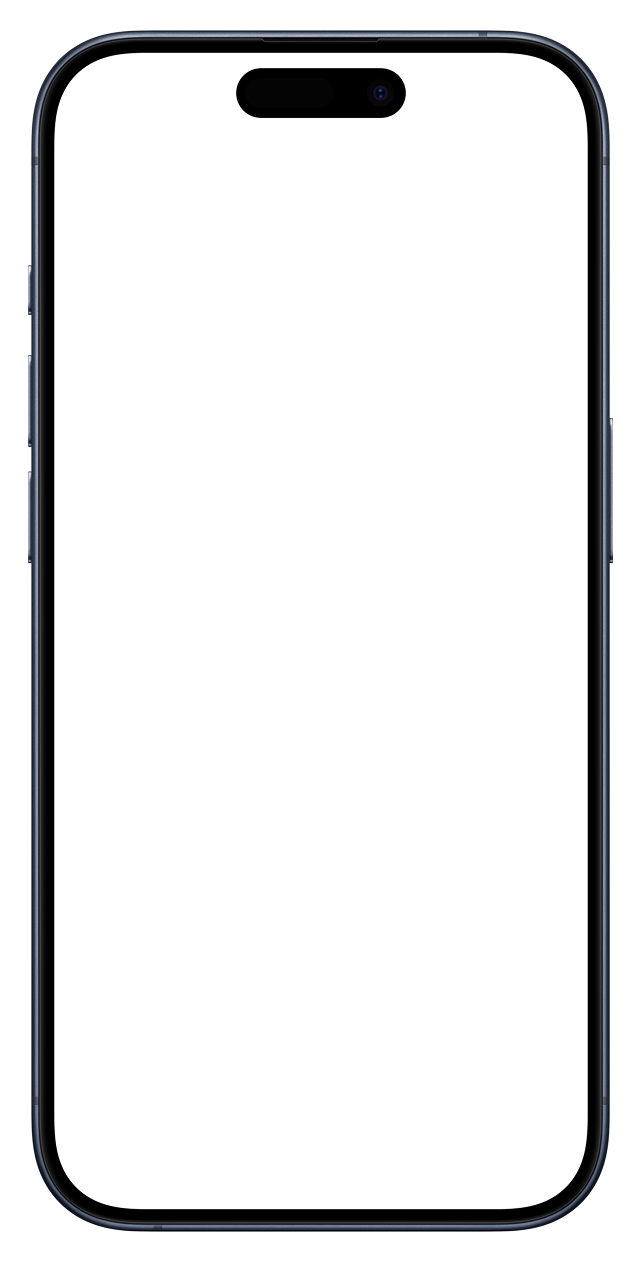
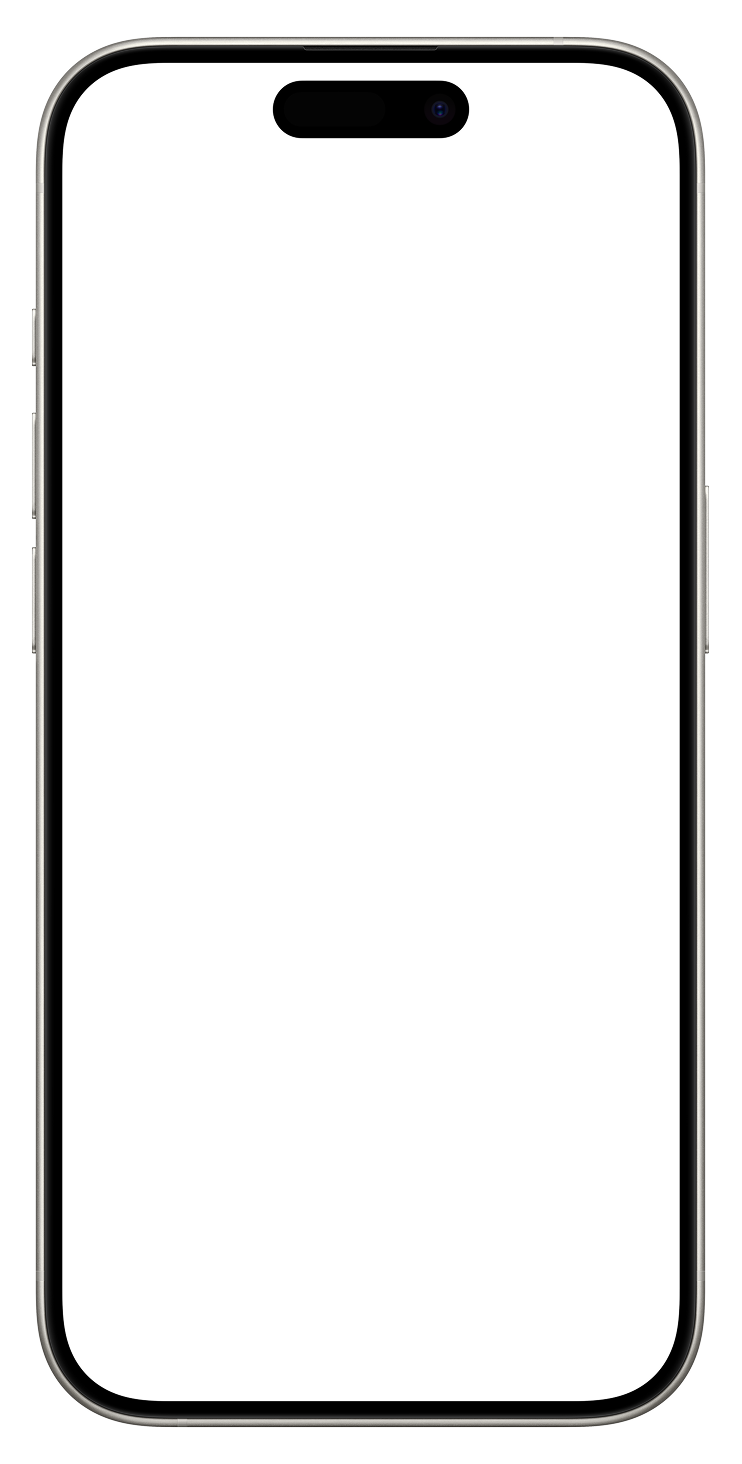
Replace Bookworm video frame with static responsive iPhone mockup
- Swap bw_iphone_frame.png with new clean iPhone 15 Pro mockup image
- Remove video overlay and fill-based layout that caused vertical stretching
- Use width/height props with height:auto CSS for proper responsive scaling

Changed region(s): [[0.0312, 0.0, 0.9657, 0.9889]]

diff --git a/app/page.js b/app/page.js
@@ -194,14 +194,11 @@ export default function Home() {
         {/* Bookworm */}
         <div className="group flex flex-col overflow-hidden cursor-pointer"
           style={{ backgroundColor: '#184131', borderRadius: '32px', paddingTop: '60px', paddingBottom: '0px', paddingLeft: '20px', paddingRight: '20px', gap: '80px' }}>
-          <div className="flex w-full transition-all duration-500 group-hover:-translate-y-4" style={{ alignItems: 'flex-end', minHeight: '420px' }}>
+          <div className="flex w-full transition-all duration-500 group-hover:-translate-y-4" style={{ alignItems: 'flex-end' }}>
             <Image src="/Images/bw_image.png" alt="Bookworm" width={900} height={600} className="object-contain rounded-xl" style={{ width: '75%', height: 'auto' }} />
-            <div style={{ position: 'relative', flex: '1 1 0', marginLeft: '-4px', alignSelf: 'stretch' }}>
-              <div style={{ position: 'absolute', top: '4%', left: '8.5%', right: '8.5%', bottom: '4.2%', borderRadius: '11%/5.5%', overflow: 'hidden', zIndex: 1 }}>
-                <video src="/Images/Bookworm.mp4" autoPlay loop muted playsInline style={{ width: '100%', height: '100%', objectFit: 'cover' }} />
-              </div>
-              <Image src="/Images/bw_iphone_frame.png" alt="iPhone frame" fill
-                style={{ objectFit: 'fill', zIndex: 10, pointerEvents: 'none' }} />
+            <div style={{ flex: '1 1 0', marginLeft: '-4px' }}>
+              <Image src="/Images/bw_iphone_frame.png" alt="Bookworm iPhone" width={742} height={1464}
+                style={{ width: '100%', height: 'auto', display: 'block' }} />
             </div>
           </div>
           <div className="flex items-center justify-between" style={{ padding: '16px 20px', marginBottom: '20px' }}>
